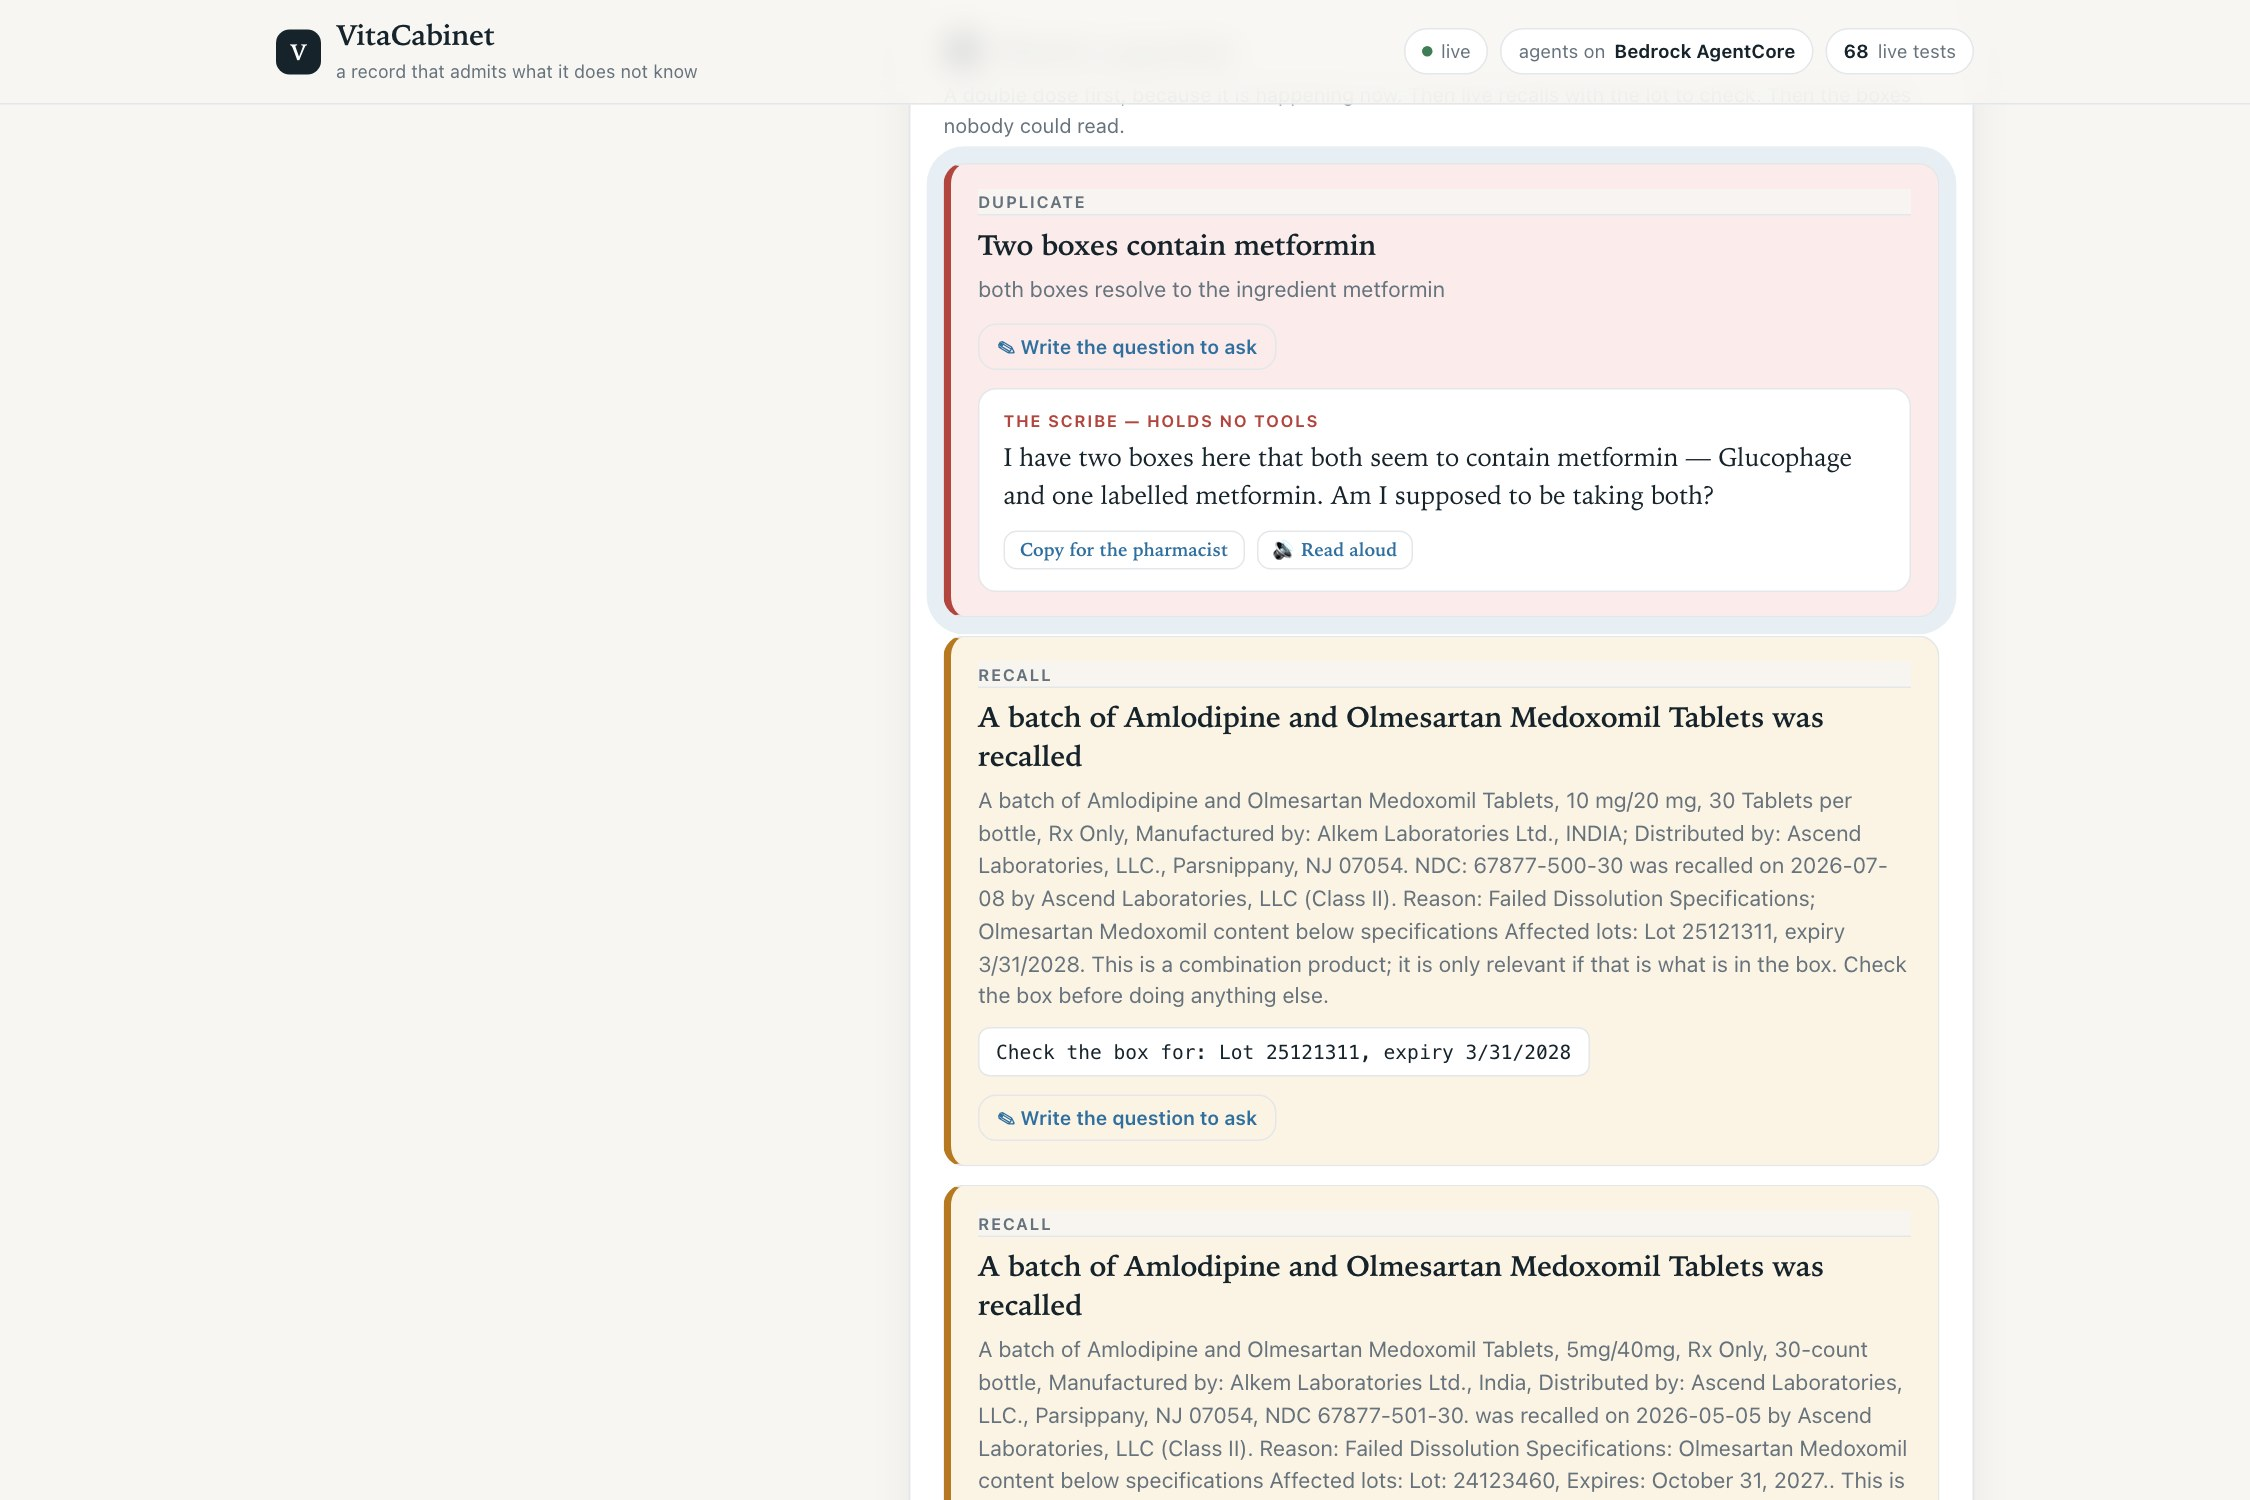
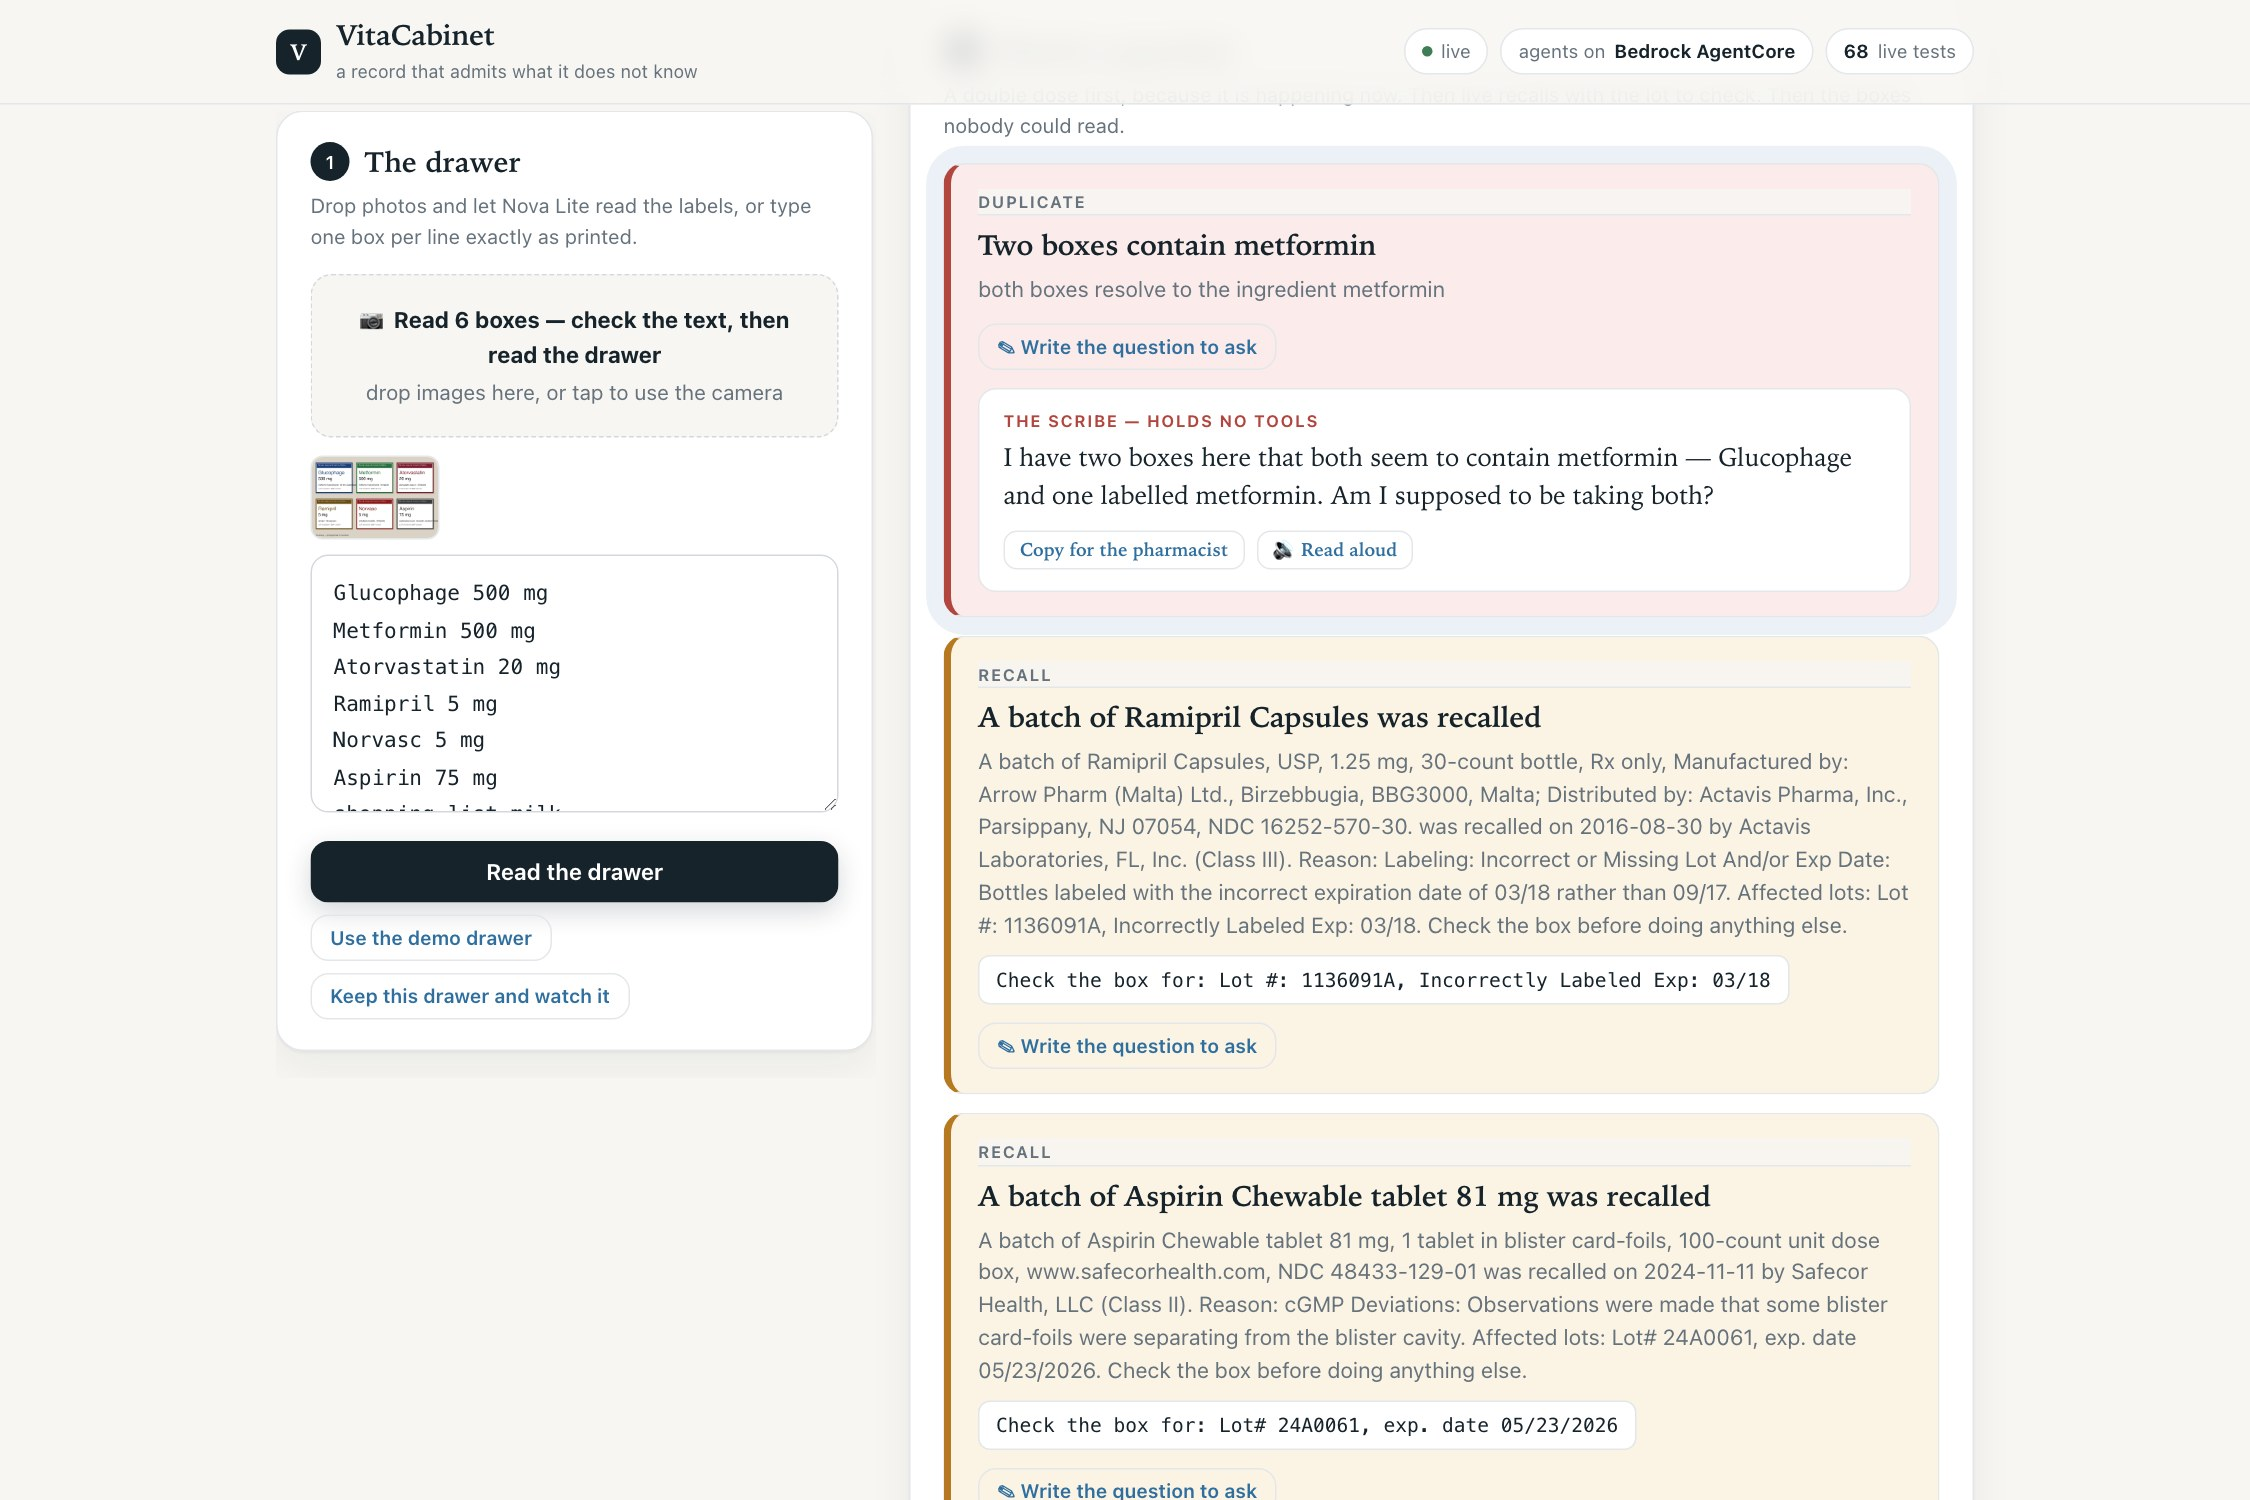
design: fact rows that do not wrap; a kept drawer shows its last findings on arrival

diff --git a/web/index.html b/web/index.html
@@ -134,13 +134,14 @@
   /* ── the cabinet ───────────────────────────────────────── */
   #cabinet,#arch,#closing{display:none} #cabinet.on,#arch.on,#closing.on{display:block}
   .cabsum{display:flex;gap:8px;flex-wrap:wrap;margin:0 0 12px}
-  .fact{display:grid;grid-template-columns:1fr 110px auto;gap:12px;align-items:center;padding:11px 0;border-bottom:1px solid var(--line);animation:in .3s ease-out}
+  .fact{display:grid;grid-template-columns:1fr auto;grid-template-areas:"s c" "b b" "w w";gap:6px 12px;align-items:center;padding:12px 0;border-bottom:1px solid var(--line);animation:in .3s ease-out}
   .fact:last-child{border-bottom:0}
-  .fact .s{font-weight:650;font-size:15px} .fact .w{font-size:12.5px;color:var(--muted);margin-top:2px}
-  .bar{height:9px;background:var(--line);border-radius:5px;overflow:hidden}
+  .fact .s{grid-area:s;font-weight:650;font-size:15px;display:flex;align-items:center;gap:8px;flex-wrap:wrap}
+  .fact .c{grid-area:c} .fact .w{grid-area:w;font-size:12.5px;color:var(--muted)}
+  .pill{font:600 11px var(--sans);letter-spacing:.04em;text-transform:uppercase;color:var(--med);background:var(--med-bg);border:1px solid #e8d3ad;border-radius:999px;padding:2px 8px}
+  .bar{grid-area:b;height:9px;background:var(--line);border-radius:5px;overflow:hidden}
   .bar i{display:block;height:100%;background:var(--ok);border-radius:5px;transition:width .6s cubic-bezier(.2,.8,.2,1)}
   .fact.stale .bar i{background:var(--med)}
-  .fact.stale .s::after{content:"  worth asking about";font-weight:500;color:var(--med);font-size:12.5px}
   .watch{display:grid;gap:8px;margin-top:14px;padding:12px 14px;border-radius:12px;background:var(--paper);border:1px solid var(--line);font-size:13.5px;color:var(--muted)}
   .watch b{color:var(--ink)} .watch .zero{color:var(--ok);font-weight:650}
   .hist{display:flex;gap:4px;align-items:flex-end;height:18px} .hist i{width:8px;border-radius:2px;background:var(--line2)} .hist i.new{background:var(--high)}
@@ -351,17 +352,24 @@ function render(data) {
   const c = [['boxes read', data.drugs.length], ['duplicate', kinds('duplicate'), 'alert'], ['live recalls', kinds('recall')],
              ['ingredients checked', data.ingredients_checked.length], ['unreadable', data.unreadable.length], ['tool calls', data.trace.length], ['seconds', data.seconds]];
   $('counts').innerHTML = c.map(([k, v, cls]) => `<span class="count ${cls && v ? cls : ''}"><b>${v}</b> ${k}</span>`).join('');
-  $('out').innerHTML = data.findings.length ? data.findings.map((f, i) => `
+  $('out').innerHTML = data.findings.length ? cards(data.findings, newKeys)
+    : '<div class="empty big"><div class="ico">✅</div>Nothing in this drawer is worth a question today.</div>';
+  wireQuestions(data.findings);
+  $('note').innerHTML = data.unreadable.length ? 'Not identified, and deliberately left that way: ' + data.unreadable.map(u => `<span class="unreadable">${esc(u)}</span>`).join(' ') + ' — a wrong name here would become a recall alert for a drug nobody takes.' : '';
+  $('p-findings').scrollIntoView({behavior:'smooth', block:'start'});
+}
+
+function cards(findings, newKeys) {
+  return findings.map((f, i) => `
     <article class="finding ${esc(f.severity)}">
       <div class="top"><span class="tag">${esc(f.kind)}</span>${newKeys.has(f.key) ? '<span class="new">new since last check</span>' : ''}</div>
       <h3>${esc(f.headline)}</h3><p>${esc(f.detail)}</p>
       ${f.lots ? `<div class="lots">Check the box for: ${esc(f.lots)}</div>` : ''}
       <div class="acts"><button class="btn btn-ghost" data-i="${i}">✎ Write the question to ask</button></div>
-      <div class="question" id="q${i}" hidden></div></article>`).join('')
-    : '<div class="empty big"><div class="ico">✅</div>Nothing in this drawer is worth a question today.</div>';
-  document.querySelectorAll('.finding .acts button').forEach(b => b.onclick = () => writeQuestion(data.findings[+b.dataset.i], +b.dataset.i, b));
-  $('note').innerHTML = data.unreadable.length ? 'Not identified, and deliberately left that way: ' + data.unreadable.map(u => `<span class="unreadable">${esc(u)}</span>`).join(' ') + ' — a wrong name here would become a recall alert for a drug nobody takes.' : '';
-  $('p-findings').scrollIntoView({behavior:'smooth', block:'start'});
+      <div class="question" id="q${i}" hidden></div></article>`).join('');
+}
+function wireQuestions(findings) {
+  document.querySelectorAll('.finding .acts button').forEach(b => b.onclick = () => writeQuestion(findings[+b.dataset.i], +b.dataset.i, b));
 }
 
 async function writeQuestion(finding, i, btn) {
@@ -394,9 +402,19 @@ function showCabinet(d) {
   const conf = d.facts.filter(f => !f.stale).length;
   $('cabsum').innerHTML = `<span class="chip"><b>${d.facts.length}</b> facts</span><span class="chip"><span class="dot"></span><b>${conf}</b> confident</span><span class="chip"><b>${d.stale_count}</b> worth asking</span>`;
   $('facts').innerHTML = d.facts.map(f => `<div class="fact ${f.stale ? 'stale' : ''}">
-    <div><div class="s">${esc(f.subject)}</div><div class="w">${esc(f.why)}</div></div>
+    <div class="s">${esc(f.subject)}${f.stale ? '<span class="pill">worth asking</span>' : ''}</div>
+    <button class="btn btn-ghost btn-tiny c" data-s="${esc(f.subject)}">Confirm</button>
     <div class="bar" title="${Math.round(f.confidence*100)}% believed"><i style="width:${Math.round(f.confidence * 100)}%"></i></div>
-    <button class="btn btn-ghost btn-tiny" data-s="${esc(f.subject)}">Confirm</button></div>`).join('');
+    <div class="w">${esc(f.why)}</div></div>`).join('');
+  // Arriving at a kept drawer: show what the Watchman found last time, so the
+  // page is never empty for somebody following a link.
+  if (!lastScan && d.findings?.length) {
+    const newKeys = new Set((d.last_new || []).map(f => f.key));
+    $('out').innerHTML = cards(d.findings, newKeys);
+    wireQuestions(d.findings);
+    $('trace').innerHTML = `<div class="empty big"><div class="ico">🌙</div>Last read by the Watchman ${d.last_checked ? new Date(d.last_checked*1000).toLocaleString() : ''}. Press <b>Run the Watchman now</b> to watch the agents read it live.</div>`;
+    setStep(4);
+  }
   document.querySelectorAll('#facts button').forEach(b => b.onclick = async () => showCabinet(await post(`/drawers/${d.id}/confirm`, { subject: b.dataset.s })));
   const when = d.last_checked ? new Date(d.last_checked * 1000).toLocaleString() : 'never';
   const last = (d.history || []).slice(-1)[0];
@@ -439,8 +457,8 @@ const ACTIONS = {
     if (k === 'counts') return ring($('counts')); if (k === 'trace') return ring($('trace')); if (k === 'unreadable') return ring($('note'));
     if (k === 'decay') return ring($('arch')); if (k === 'facts') return ring($('facts')); if (k === 'watch') return ring($('watch'));
     ring([...document.querySelectorAll('.finding')].find(f => f.querySelector('.tag')?.textContent.trim() === k)); },
-  async question(a) { const i = (lastScan?.findings || []).findIndex(f => f.kind === (a?.kind || 'duplicate')); if (i < 0) return;
-    ring(document.querySelector(`#q${i}`)?.closest('.finding')); const b = document.querySelector(`.finding .acts button[data-i="${i}"]`); if (b) await writeQuestion(lastScan.findings[i], i, b); },
+  async question(a) { const list = lastScan?.findings || drawer?.findings || []; const i = list.findIndex(f => f.kind === (a?.kind || 'duplicate')); if (i < 0) return;
+    ring(document.querySelector(`#q${i}`)?.closest('.finding')); const b = document.querySelector(`.finding .acts button[data-i="${i}"]`); if (b) await writeQuestion(list[i], i, b); },
   async save() { await saveDrawer(); ring($('cabinet')); },
   async confirm(a) { if (!drawer) return;
     const want = (a?.subject || drawer.boxes[0]).toLowerCase();
